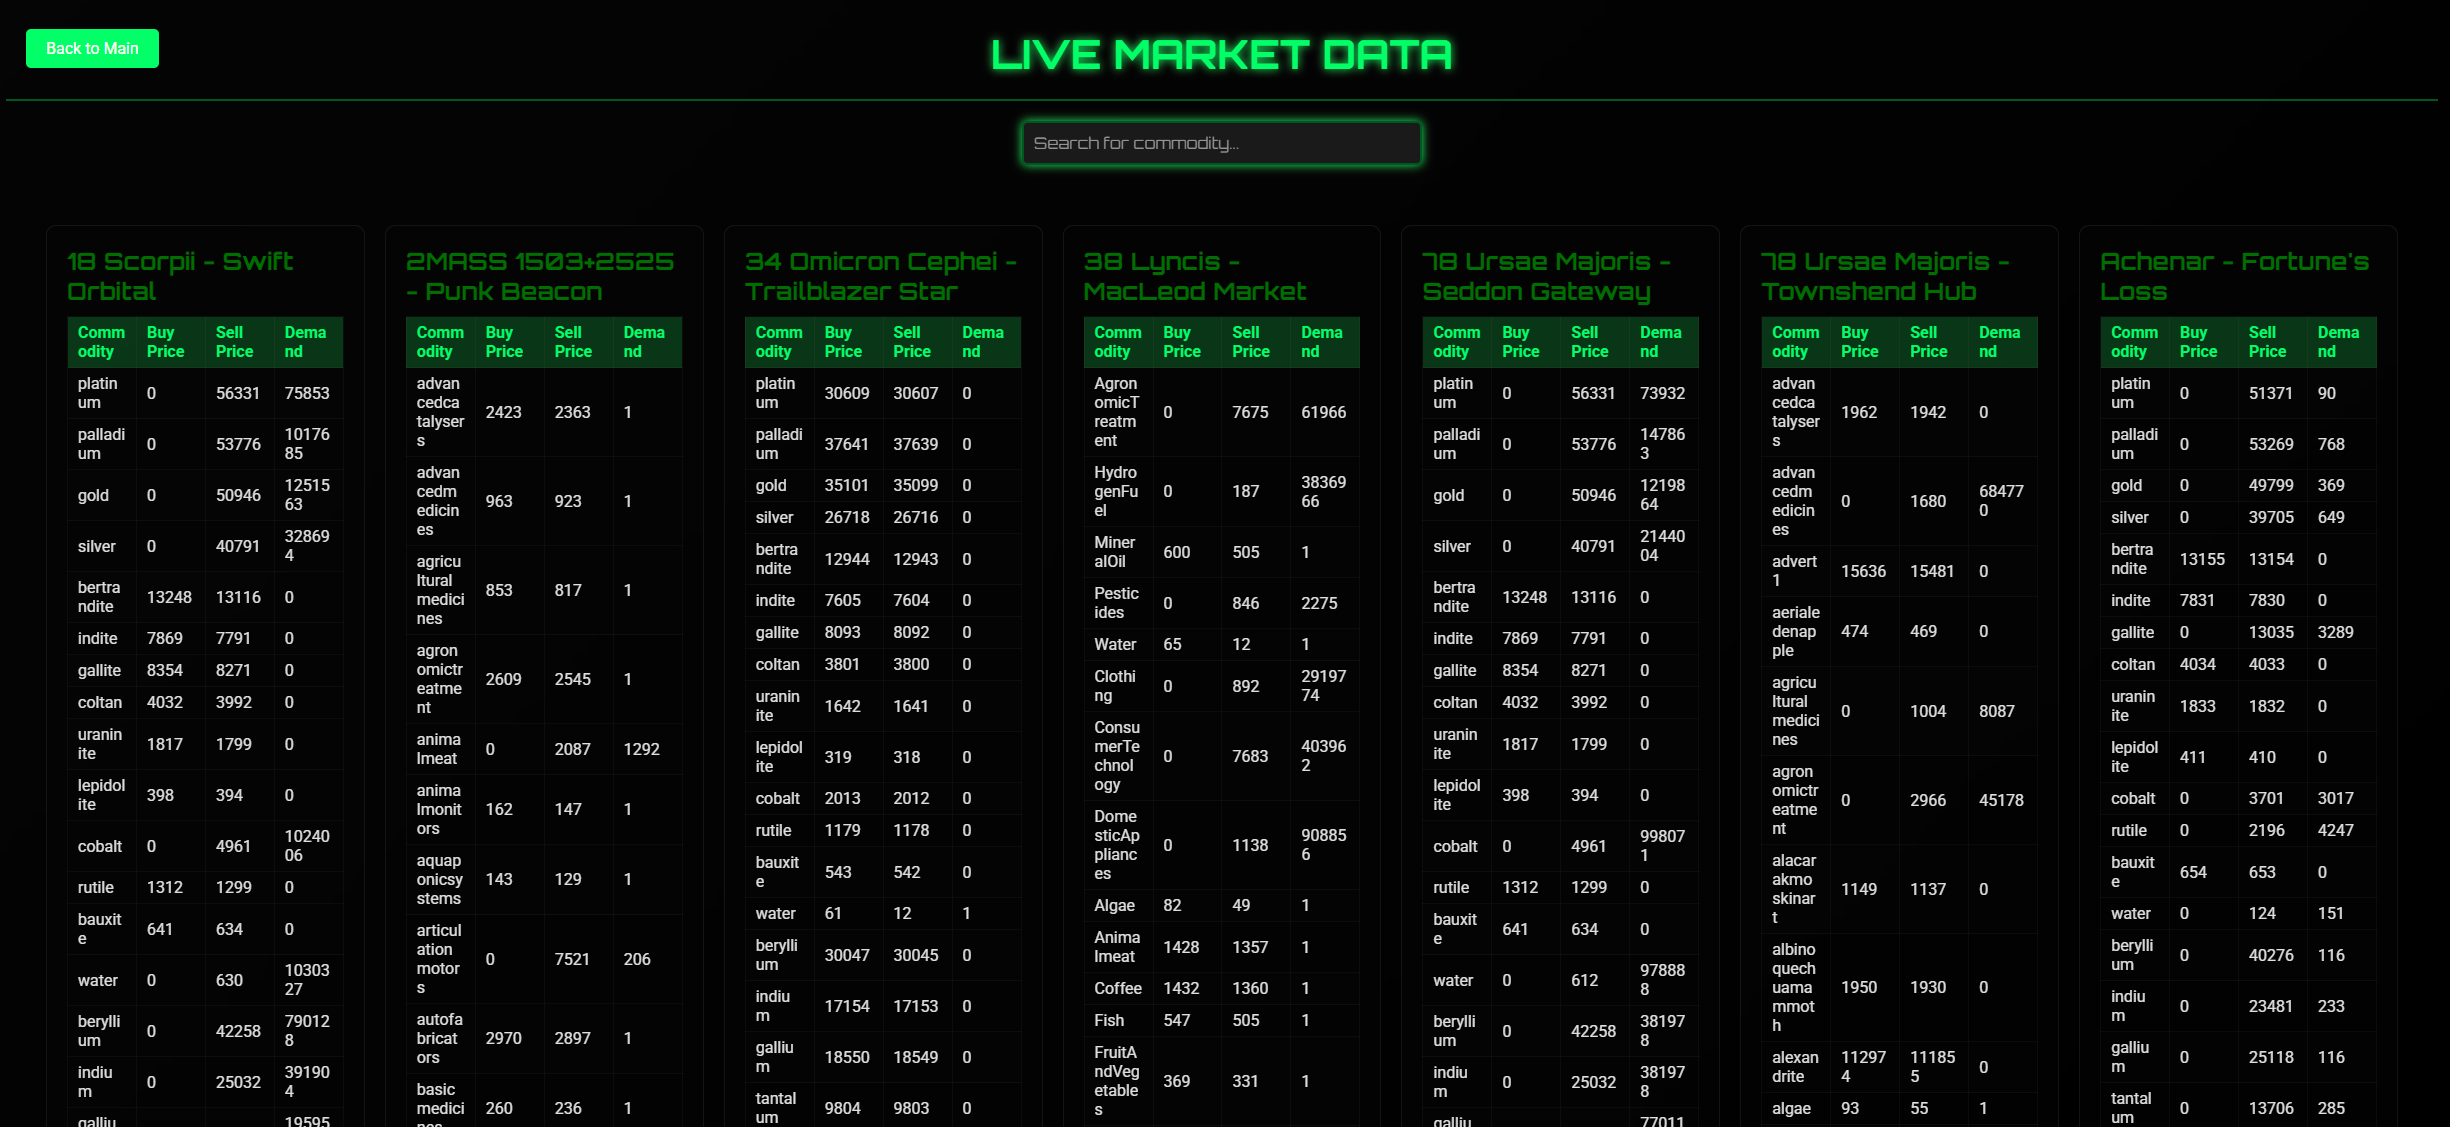
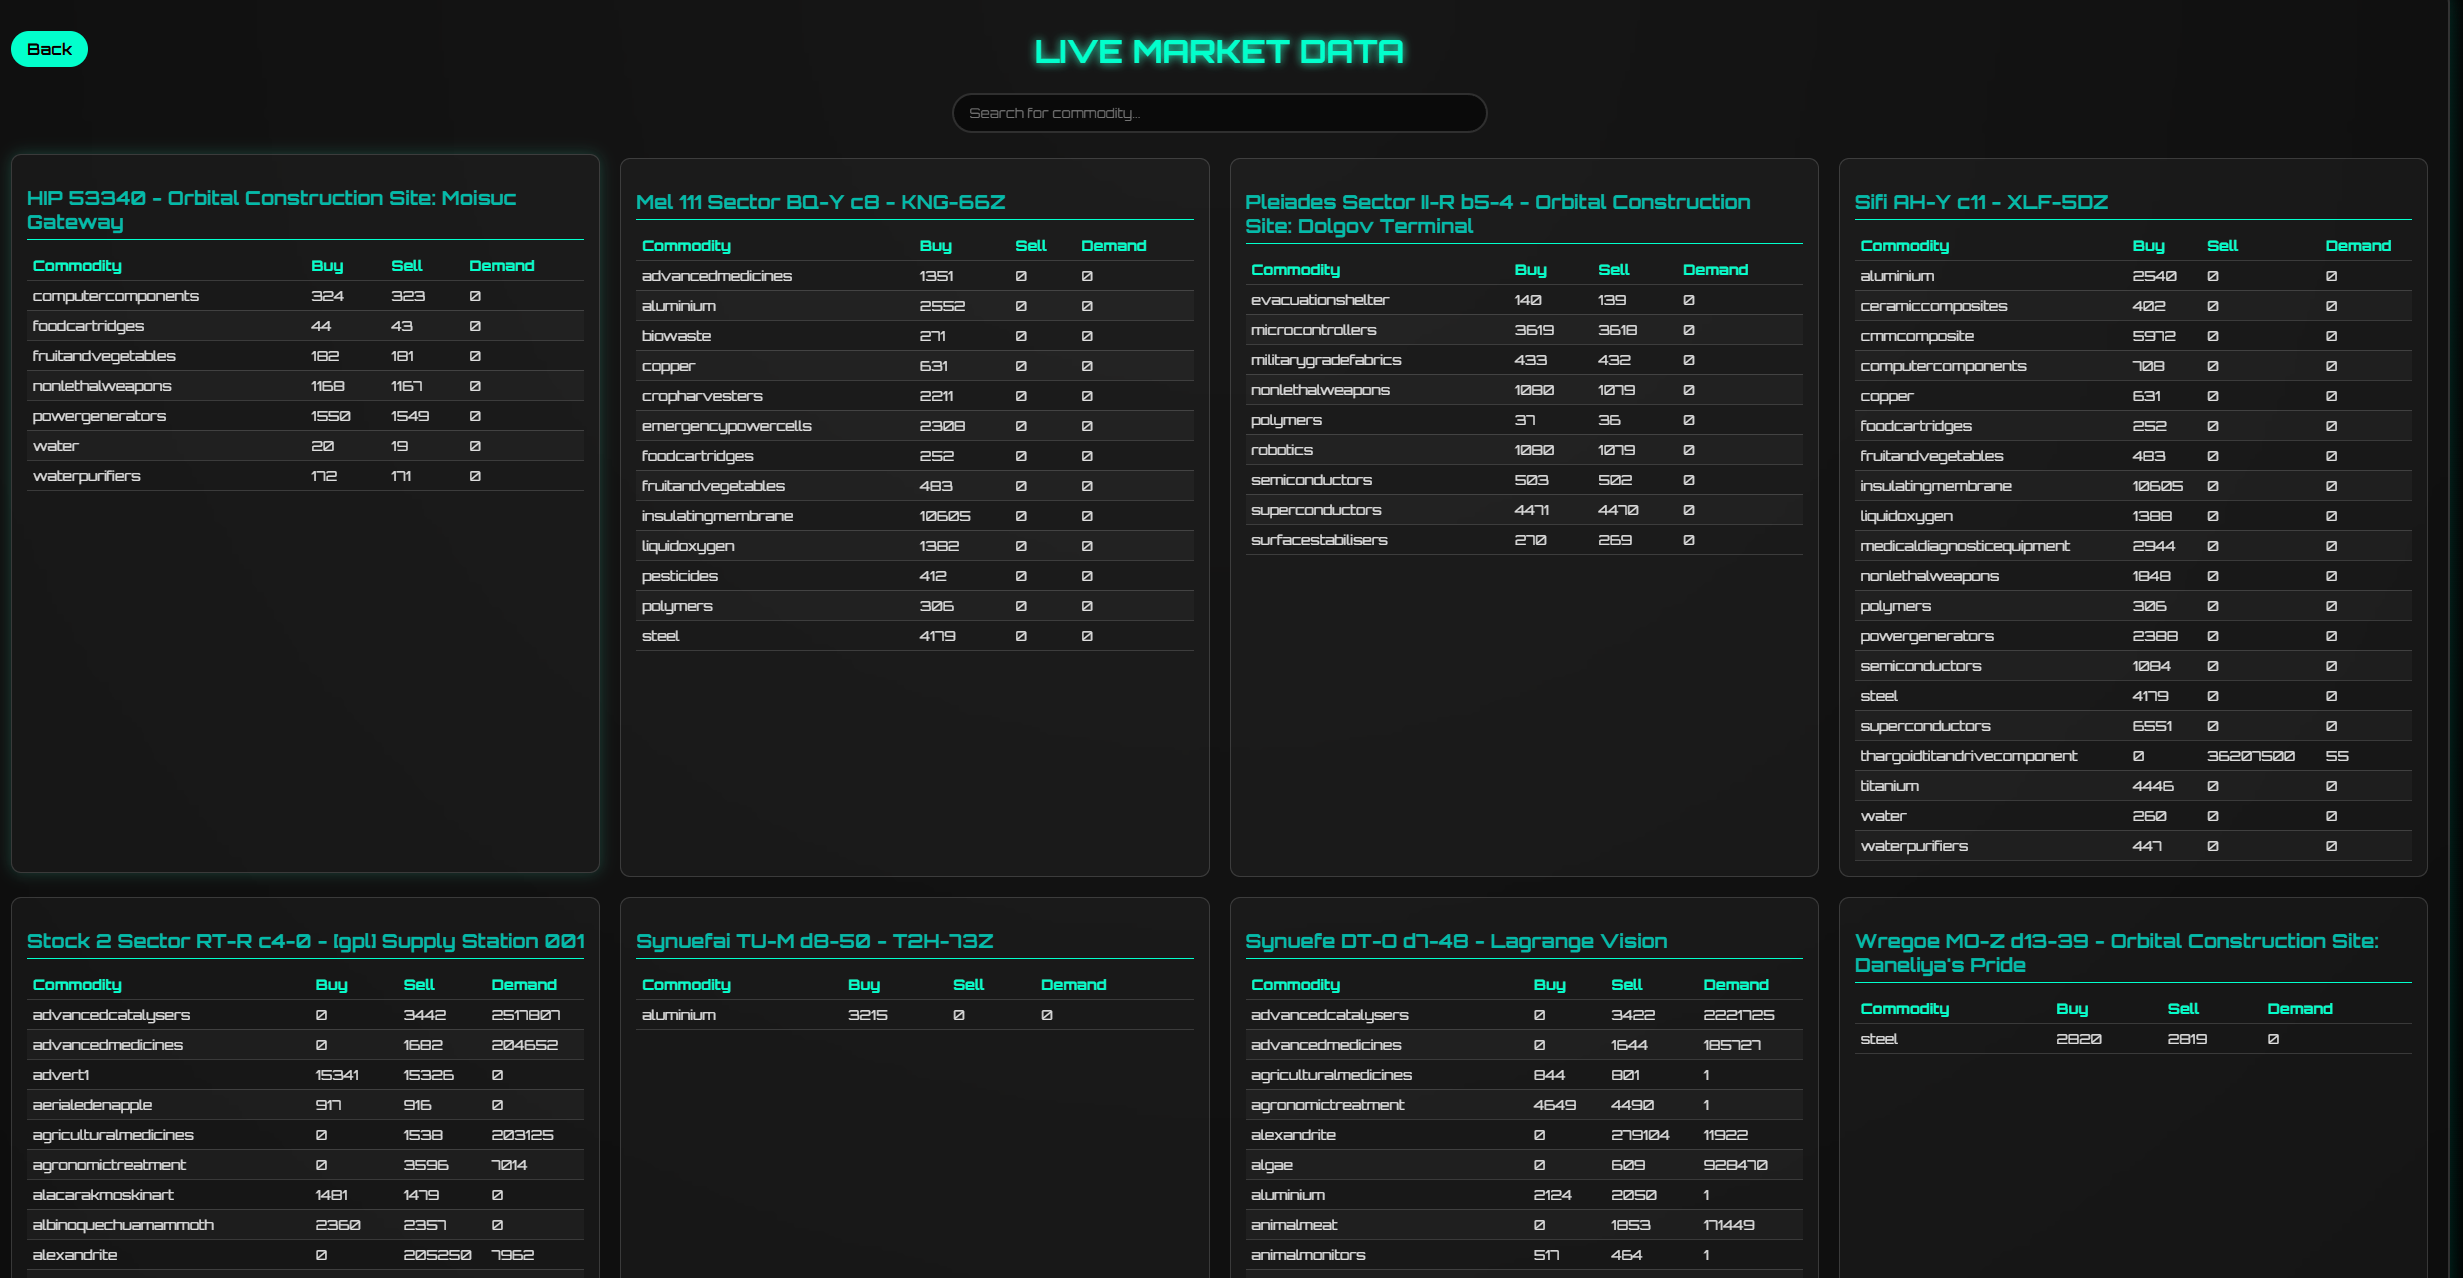
Elite
- Updated The elite Data Table Styling

diff --git a/EDLM.html b/EDLM.html
@@ -341,10 +341,10 @@
                 <ul class="icon-list">
                     <li>Filename | EDLM Live Market Tracker</li>
                     <li>Category | Beta Release</li>
-                    <li>Version | V0.0.59</li>
+                    <li>Version | V0.0.6</li>
                     <li>Author | FlockersDesign</li>
                     <li>Updated | August 22nd, 2025</li>
-                    <li>Size | 3.49 KB</li>
+                    <li>Size | 3.23 KB</li>
                 </ul>
                 <a href="/assets/ELDLM - Elite Dangerous.zip" class="btn download-btn">
                     Download
